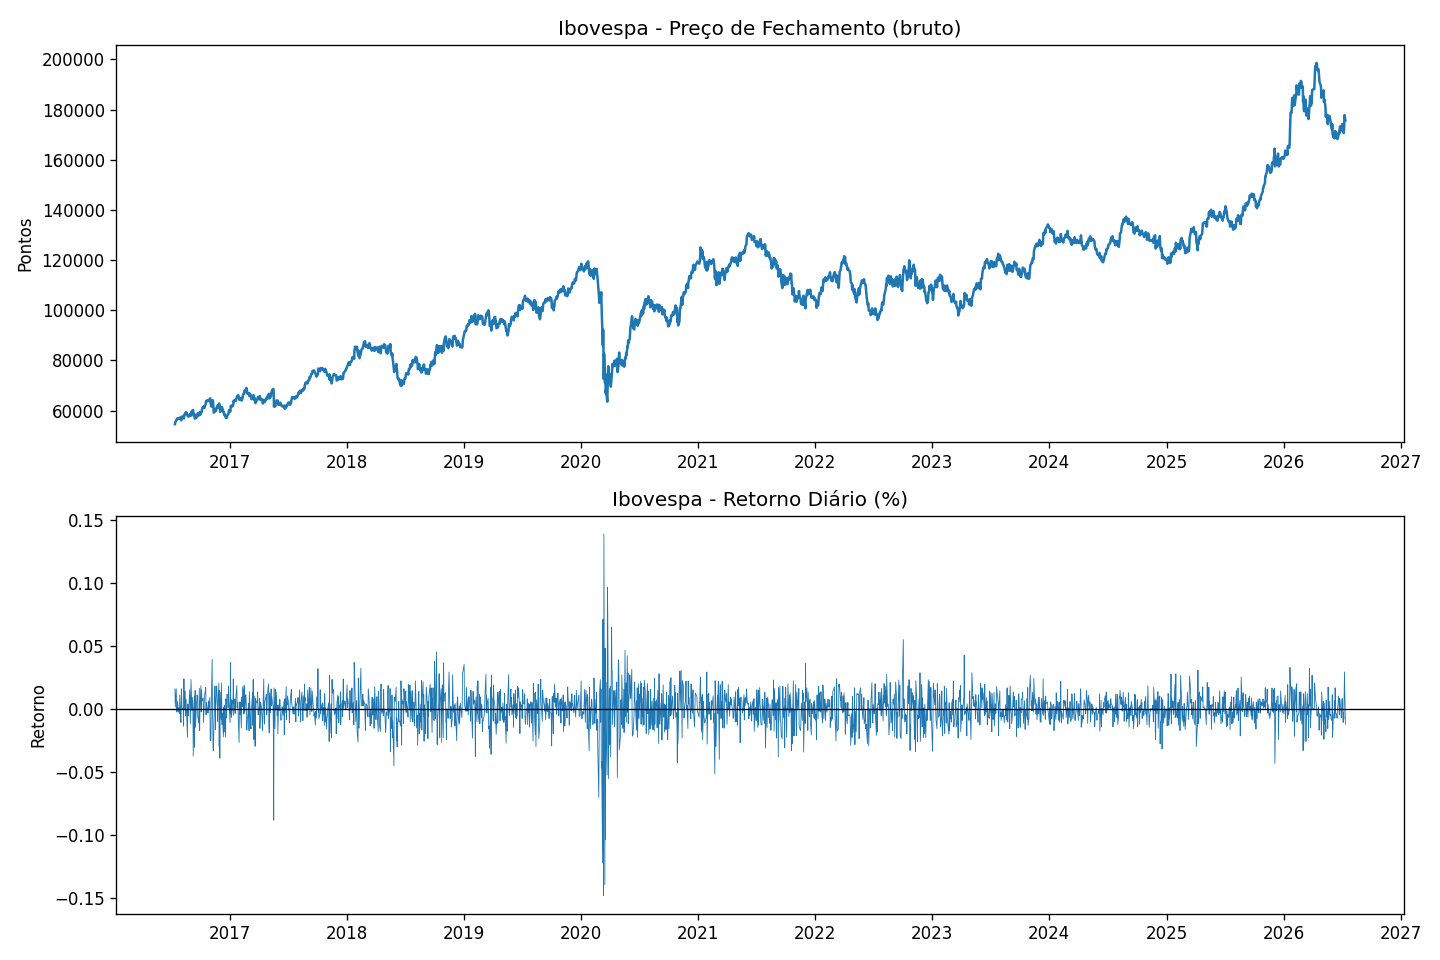
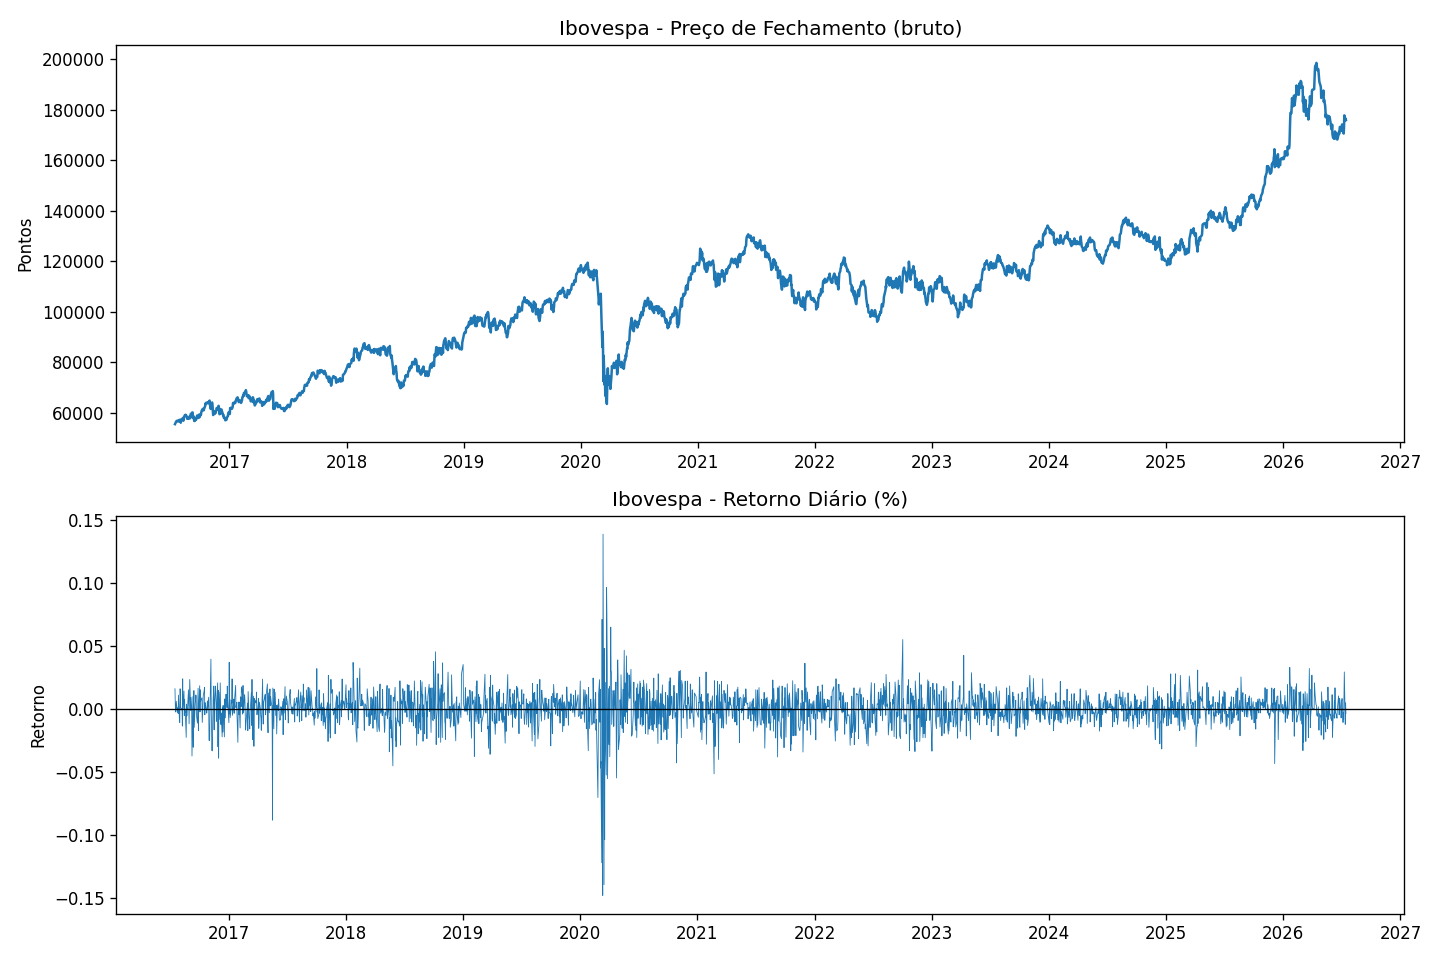
Add files via upload

diff --git a/api/main.py b/api/main.py
@@ -1,0 +1,161 @@
+"""
+api/main.py
+
+API REST que serve previsões de volatilidade do Ibovespa usando o modelo
+"champion" registrado no MLflow (Fase 7).
+
+Por que uma pasta `api/` separada do `src/`?
+`src/` é o pipeline de TREINO (ingestão, features, treino, avaliação) -
+roda periodicamente, offline, e produz um modelo. `api/` é a camada de
+SERVIÇO - roda continuamente, online, e apenas CONSOME o modelo já
+treinado. São responsabilidades diferentes; separar evita que o serviço
+de produção dependa de bibliotecas pesadas que só o treino precisa
+(ex: statsmodels, usado só na EDA).
+
+Endpoints:
+- GET  /health          -> verifica se a API está no ar
+- GET  /model-info      -> qual versão do modelo está carregada
+- POST /predict         -> previsão a partir de features já calculadas
+- GET  /predict/latest  -> busca os dados mais recentes do Ibovespa,
+                           calcula as features e prevê a volatilidade
+                           de amanhã, tudo em uma chamada
+"""
+
+from pathlib import Path
+from contextlib import asynccontextmanager
+
+import pandas as pd
+import mlflow
+import yfinance as yf
+from fastapi import FastAPI, HTTPException
+from pydantic import BaseModel, Field
+
+from src.features import compute_feature_columns
+
+PROJECT_ROOT = Path(__file__).resolve().parent.parent
+MLFLOW_TRACKING_URI = f"sqlite:///{PROJECT_ROOT / 'mlflow.db'}"
+REGISTERED_MODEL_NAME = "ibovespa_volatility_rf"
+MODEL_ALIAS = "champion"
+
+FEATURE_COLUMNS = [
+    "return_lag_1", "return_lag_2", "return_lag_5",
+    "abs_return_lag_1", "abs_return_lag_2",
+    "volatility_5d", "volatility_10d", "volatility_21d",
+    "momentum_5d", "momentum_10d",
+    "hl_range_lag_1",
+]
+
+TICKER = "^BVSP"
+
+# Dicionário simples que guarda o modelo carregado e seus metadados.
+# Carregar o modelo é uma operação relativamente cara (lê do MLflow),
+# por isso fazemos isso UMA vez na inicialização da API, não a cada request.
+model_state = {}
+
+
+@asynccontextmanager
+async def lifespan(app: FastAPI):
+    """Carrega o modelo champion na inicialização da API (e só nela)."""
+    mlflow.set_tracking_uri(MLFLOW_TRACKING_URI)
+    model_uri = f"models:/{REGISTERED_MODEL_NAME}@{MODEL_ALIAS}"
+
+    client = mlflow.tracking.MlflowClient()
+    model_version = client.get_model_version_by_alias(REGISTERED_MODEL_NAME, MODEL_ALIAS)
+
+    model_state["model"] = mlflow.pyfunc.load_model(model_uri)
+    model_state["version"] = model_version.version
+    model_state["alias"] = MODEL_ALIAS
+
+    print(f"Modelo carregado: {REGISTERED_MODEL_NAME} versão {model_version.version} (alias: {MODEL_ALIAS})")
+    yield
+    model_state.clear()
+
+
+app = FastAPI(
+    title="Ibovespa Volatility Forecast API",
+    description="Previsão da volatilidade (retorno absoluto) do Ibovespa para o próximo dia útil.",
+    version="1.0.0",
+    lifespan=lifespan,
+)
+
+
+class PredictionInput(BaseModel):
+    """Features já calculadas, na mesma ordem/definição usada no treino."""
+    return_lag_1: float
+    return_lag_2: float
+    return_lag_5: float
+    abs_return_lag_1: float = Field(ge=0)
+    abs_return_lag_2: float = Field(ge=0)
+    volatility_5d: float = Field(ge=0)
+    volatility_10d: float = Field(ge=0)
+    volatility_21d: float = Field(ge=0)
+    momentum_5d: float
+    momentum_10d: float
+    hl_range_lag_1: float = Field(ge=0)
+
+
+class PredictionOutput(BaseModel):
+    predicted_volatility: float
+    model_name: str
+    model_version: str
+
+
[email redacted]("/health")
+def health():
+    return {"status": "ok"}
+
+
[email redacted]("/model-info")
+def model_info():
+    return {
+        "model_name": REGISTERED_MODEL_NAME,
+        "version": model_state.get("version"),
+        "alias": model_state.get("alias"),
+    }
+
+
[email redacted]("/predict", response_model=PredictionOutput)
+def predict(payload: PredictionInput):
+    """Recebe features já calculadas e retorna a previsão de volatilidade."""
+    input_df = pd.DataFrame([payload.model_dump()])[FEATURE_COLUMNS]
+    prediction = model_state["model"].predict(input_df)[0]
+
+    return PredictionOutput(
+        predicted_volatility=float(prediction),
+        model_name=REGISTERED_MODEL_NAME,
+        model_version=str(model_state.get("version")),
+    )
+
+
[email redacted]("/predict/latest", response_model=PredictionOutput)
+def predict_latest():
+    """
+    Busca os dados mais recentes do Ibovespa via yfinance, calcula as
+    features com a MESMA função usada no treino (src.features), e prevê
+    a volatilidade do próximo dia útil - sem o usuário precisar calcular
+    nada manualmente.
+    """
+    df = yf.download(TICKER, period="3mo", interval="1d", auto_adjust=False, progress=False)
+
+    if df.empty:
+        raise HTTPException(status_code=503, detail="Não foi possível obter dados do Ibovespa no momento.")
+
+    if isinstance(df.columns, pd.MultiIndex):
+        df.columns = df.columns.get_level_values(0)
+
+    features_df = compute_feature_columns(df)
+    latest_features = features_df.iloc[[-1]][FEATURE_COLUMNS]
+
+    if latest_features.isnull().any(axis=None):
+        raise HTTPException(
+            status_code=503,
+            detail="Dados insuficientes para calcular todas as features (histórico muito curto).",
+        )
+
+    prediction = model_state["model"].predict(latest_features)[0]
+
+    return PredictionOutput(
+        predicted_volatility=float(prediction),
+        model_name=REGISTERED_MODEL_NAME,
+        model_version=str(model_state.get("version")),
+    )

diff --git a/src/features.py b/src/features.py
@@ -32,10 +32,16 @@ def load_raw_data() -> pd.DataFrame:
     return pd.read_parquet(RAW_DATA_PATH)
 
 
-def build_features(df: pd.DataFrame) -> pd.DataFrame:
+def compute_feature_columns(df: pd.DataFrame) -> pd.DataFrame:
     """
-    Recebe o DataFrame bruto (Open, High, Low, Close, Volume) e retorna
-    um DataFrame de features + coluna 'target_volatility', pronto para treino.
+    Calcula APENAS as colunas de features (sem o alvo) a partir do dado bruto.
+
+    Isolar essa lógica permite reutilizá-la tanto no treino (build_features,
+    abaixo) quanto na API de serving (Fase 8) - garantindo que a API calcula
+    as features EXATAMENTE da mesma forma que o treino. Se essa lógica fosse
+    duplicada em dois lugares, um ajuste feito só de um lado criaria uma
+    divergência silenciosa entre o que o modelo aprendeu e o que ele recebe
+    em produção (training/serving skew).
     """
     out = pd.DataFrame(index=df.index)
 
@@ -48,8 +54,6 @@ def build_features(df: pd.DataFrame) -> pd.DataFrame:
     out["return_lag_5"] = daily_return.shift(5)
 
     # --- Lags de retorno ABSOLUTO: o ingrediente central pra prever volatilidade ---
-    # Se ontem foi um dia de movimento forte (positivo ou negativo), isso é
-    # um bom preditor de que amanhã também pode ser volátil.
     out["abs_return_lag_1"] = abs_return.shift(1)
     out["abs_return_lag_2"] = abs_return.shift(2)
 
@@ -58,7 +62,7 @@ def build_features(df: pd.DataFrame) -> pd.DataFrame:
     out["volatility_10d"] = daily_return.shift(1).rolling(window=10).std()
     out["volatility_21d"] = daily_return.shift(1).rolling(window=21).std()
 
-    # --- Momentum (média móvel do retorno) - mantido, útil de forma secundária ---
+    # --- Momentum (média móvel do retorno) ---
     out["momentum_5d"] = daily_return.shift(1).rolling(window=5).mean()
     out["momentum_10d"] = daily_return.shift(1).rolling(window=10).mean()
 
@@ -66,8 +70,19 @@ def build_features(df: pd.DataFrame) -> pd.DataFrame:
     hl_range = (df["High"] - df["Low"]) / df["Close"]
     out["hl_range_lag_1"] = hl_range.shift(1)
 
+    return out
+
+
+def build_features(df: pd.DataFrame) -> pd.DataFrame:
+    """
+    Recebe o DataFrame bruto (Open, High, Low, Close, Volume) e retorna
+    um DataFrame de features + coluna 'target_volatility', pronto para treino.
+    """
+    out = compute_feature_columns(df)
+
     # --- Alvo: retorno ABSOLUTO de amanhã (t+1), alinhado com as features de hoje (t) ---
-    out["target_volatility"] = abs_return.shift(-1)
+    daily_return = df["Close"].pct_change()
+    out["target_volatility"] = daily_return.abs().shift(-1)
 
     out = out.dropna()
 